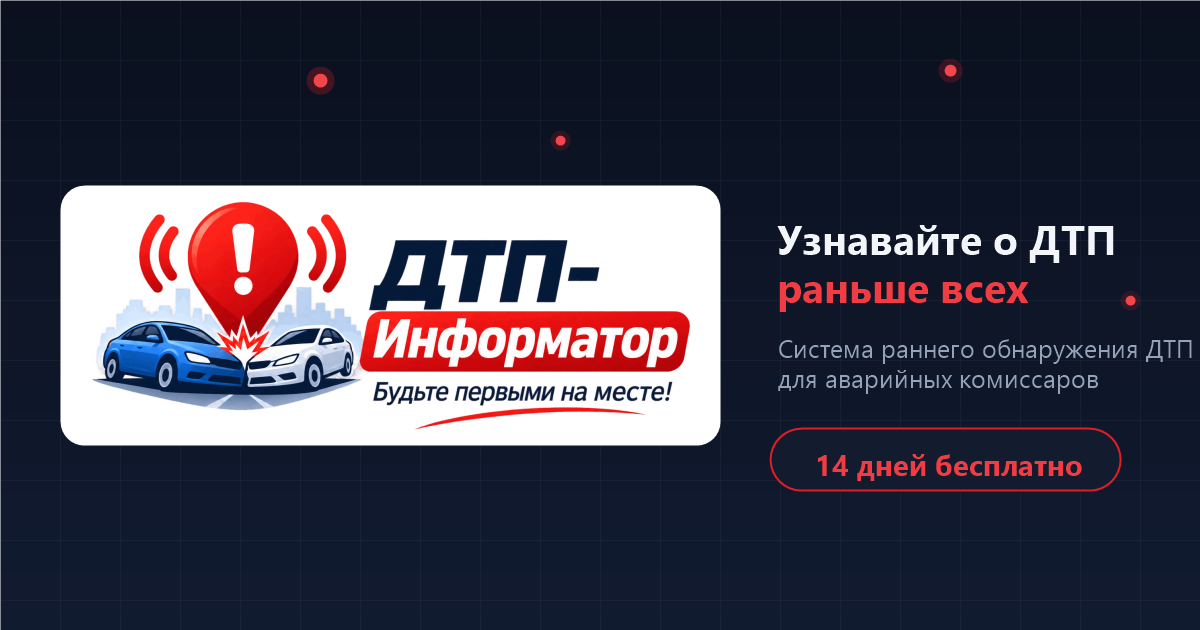
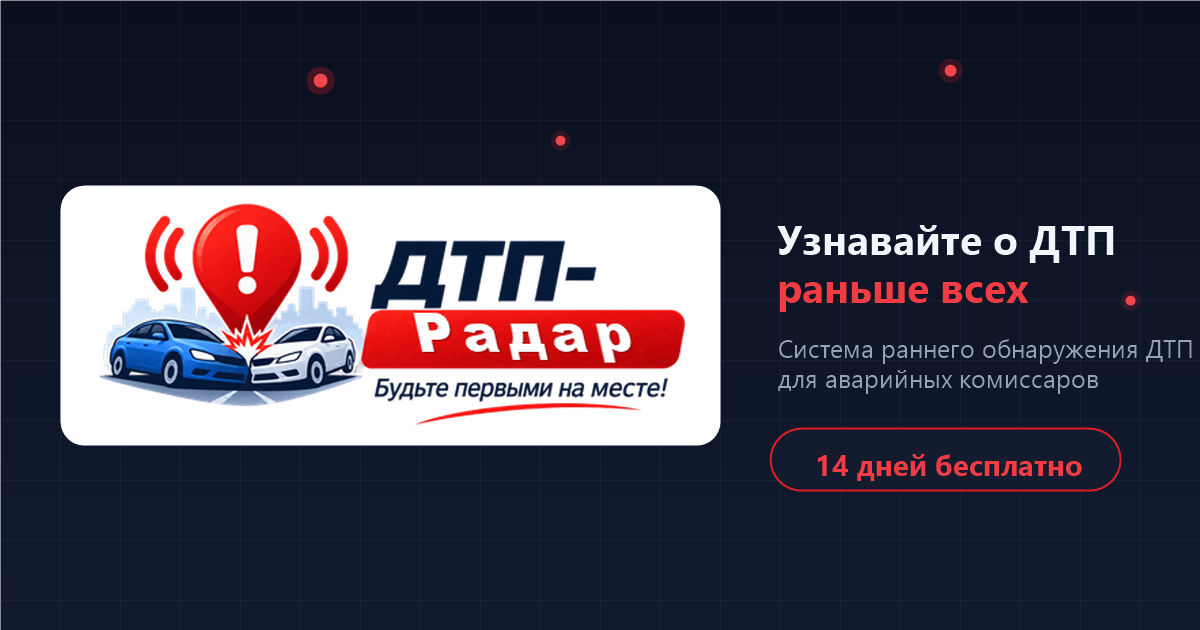
refactor: сервис переименован в "ДТП Радар"

Changed region(s): [[0.0617, 0.3016, 0.5858, 0.6937]]

diff --git a/index.html b/index.html
@@ -3,13 +3,13 @@
 <head>
   <meta charset="UTF-8">
   <meta name="viewport" content="width=device-width, initial-scale=1.0">
-  <title>ДТП Информатор - уведомления о новых ДТП для аварийных комиссаров</title>
+  <title>ДТП Радар - уведомления о новых ДТП для аварийных комиссаров</title>
   <meta name="description" content="Ваши комиссары первыми узнают о новых ДТП в городе: уведомление с адресом и координатами приходит в чат службы через несколько минут. В удобном мессенджере. 14 дней бесплатно.">
   <meta name="theme-color" content="#0b1220">
 
   <!-- Open Graph. ВАЖНО: после деплоя заменить og:url и og:image на абсолютные адреса домена -->
   <meta property="og:type" content="website">
-  <meta property="og:title" content="ДТП Информатор - комиссары узнают о ДТП первыми">
+  <meta property="og:title" content="ДТП Радар - комиссары узнают о ДТП первыми">
   <meta property="og:description" content="Уведомление о новом ДТП приходит в чат вашей службы через несколько минут. В удобном мессенджере. 14 дней бесплатно.">
   <meta property="og:image" content="assets/og-image.png">
   <meta name="twitter:card" content="summary_large_image">
@@ -74,7 +74,7 @@
   {
     "@context": "https://schema.org",
     "@type": "Service",
-    "name": "ДТП Информатор",
+    "name": "ДТП Радар",
     "description": "Сервис оповещения аварийных комиссаров о новых ДТП в их городе. Уведомление с адресом и координатами приходит в чат службы через несколько минут.",
     "areaServed": "RU",
     "review": [
@@ -85,7 +85,7 @@
       },
       {
         "@type": "Review",
-        "reviewBody": "Раньше узнавали об авариях от случайных источников - где-то кто-то скинет, где-то нет - и часто приезжали уже вторыми. С ДТП Информатором в большинстве случаев первыми на месте оказываемся мы - за два месяца выездов стало заметно больше.",
+        "reviewBody": "Раньше узнавали об авариях от случайных источников - где-то кто-то скинет, где-то нет - и часто приезжали уже вторыми. С «ДТП Радар» в большинстве случаев первыми на месте оказываемся мы - за два месяца выездов стало заметно больше.",
         "author": { "@type": "Person", "name": "Дмитрий К." }
       },
       {
@@ -104,10 +104,10 @@
 
   <header class="header">
     <div class="container header__inner">
-      <a class="logo" href="#top" aria-label="ДТП Информатор - на главную">
+      <a class="logo" href="#top" aria-label="ДТП Радар - на главную">
         <img class="logo__mark" src="assets/logo-mark.png" alt="" width="44" height="38">
         <span class="logo__text">
-          <strong>ДТП&nbsp;Информатор</strong>
+          <strong>ДТП&nbsp;Радар</strong>
           <small>система раннего обнаружения ДТП</small>
         </span>
       </a>
@@ -144,7 +144,7 @@
         <p class="hero__kicker reveal">Будьте первыми на месте ДТП!</p>
         <h1 class="hero__title reveal">Узнавайте о&nbsp;ДТП в&nbsp;вашем городе <em>первыми!</em></h1>
         <p class="hero__lead reveal">
-          ДТП Информатор - это бот в&nbsp;вашем рабочем чате. Он присылает туда данные о&nbsp;ДТП, которые произошли в&nbsp;городе прямо сейчас: адрес, координаты, и&nbsp;ссылка на маршрут. Вы читаете чат, выезжаете быстрее конкурентов и&nbsp;оформляете ДТП.
+          ДТП Радар - это бот в&nbsp;вашем рабочем чате. Он присылает туда данные о&nbsp;ДТП, которые произошли в&nbsp;городе прямо сейчас: адрес, координаты, и&nbsp;ссылка на маршрут. Вы читаете чат, выезжаете быстрее конкурентов и&nbsp;оформляете ДТП.
         </p>
         <div class="hero__actions reveal">
           <button class="btn btn--primary btn--lg" type="button" data-modal>Получить бота бесплатно</button>
@@ -196,7 +196,7 @@
                   </span>
                   <div class="phone__head-text">
                     <strong>Чат вашей службы</strong>
-                    <small><span class="online" aria-hidden="true"></span>ДТП Информатор · бот · 6 участников</small>
+                    <small><span class="online" aria-hidden="true"></span>ДТП Радар · бот · 6 участников</small>
                   </div>
                 </div>
 
@@ -444,7 +444,7 @@
               </div>
               <div class="calc__bar calc__bar--muted"><i data-calc-bar="before" style="width: 13%"></i></div>
               <div class="calc__bar-row">
-                <span>С ДТП Информатором (эксклюзив на город)</span><b data-calc-out="after2">142 560 ₽</b>
+                <span>С «ДТП Радар» (эксклюзив на город)</span><b data-calc-out="after2">142 560 ₽</b>
               </div>
               <div class="calc__bar"><i data-calc-bar="after" style="width: 100%"></i></div>
             </div>
@@ -529,7 +529,7 @@
           </figure>
           <figure class="review reveal">
             <span class="review__stars" aria-hidden="true">★★★★★</span>
-            <blockquote>«Раньше узнавали об авариях от случайных источников - где-то кто-то скинет, где-то нет - и часто приезжали уже вторыми. С ДТП Информатором в большинстве случаев первыми на месте оказываемся мы - за два месяца выездов стало заметно больше.»</blockquote>
+            <blockquote>«Раньше узнавали об авариях от случайных источников - где-то кто-то скинет, где-то нет - и часто приезжали уже вторыми. С «ДТП Радар» в большинстве случаев первыми на месте оказываемся мы - за два месяца выездов стало заметно больше.»</blockquote>
             <figcaption>
               <b>Дмитрий К.</b>
               <span>служба комиссаров, 3 экипажа</span>
@@ -596,7 +596,7 @@
     <section class="section" id="cta">
       <div class="container">
         <div class="cta reveal">
-          <img class="cta__logo" src="assets/logo-header.png" alt="ДТП Информатор - Будьте первыми на месте!" width="220" height="85">
+          <img class="cta__logo" src="assets/logo-header.png" alt="ДТП Радар - Будьте первыми на месте!" width="220" height="85">
           <h2>Попробуйте 14 дней бесплатно</h2>
           <p>Напишите в удобном мессенджере - ответим на вопросы и подключим ваш город.</p>
           <p class="cta__urgency">⚡ <b data-cta-places>Осталось 5 бесплатных мест</b> на подключение в этом месяце</p>
@@ -618,7 +618,7 @@
       <div class="logo logo--footer">
         <img class="logo__mark" src="assets/logo-mark.png" alt="" width="36" height="31">
         <span class="logo__text">
-          <strong>ДТП&nbsp;Информатор</strong>
+          <strong>ДТП&nbsp;Радар</strong>
           <small>система раннего обнаружения ДТП</small>
         </span>
       </div>
@@ -629,7 +629,7 @@
         <a href="#reviews">Отзывы</a>
         <a href="#faq">Вопросы</a>
       </nav>
-      <small class="footer__copy">© <span data-year>2026</span> ДТП Информатор</small>
+      <small class="footer__copy">© <span data-year>2026</span> ДТП Радар</small>
     </div>
   </footer>
 

diff --git a/styles.css b/styles.css
@@ -1,5 +1,5 @@
 /* ============================================================
-   ДТП Информатор — промо-лендинг
+   ДТП Радар — промо-лендинг
    Тёмная тема в фирменных цветах логотипа: красный + тёмно-синий
    ============================================================ */
 

diff --git a/main.js b/main.js
@@ -1,4 +1,4 @@
-/* ДТП Информатор — промо-лендинг: анимации и мелкая интерактивность */
+/* ДТП Радар — промо-лендинг: анимации и мелкая интерактивность */
 (() => {
   'use strict';
 

diff --git a/README.md b/README.md
@@ -1,4 +1,4 @@
-# ДТП Информатор — промо-лендинг
+# ДТП Радар — промо-лендинг
 
 Статический одностраничный сайт: чистый HTML + CSS + JS, без сборки и серверной логики.
 Можно открыть `index.html` прямо в браузере или выложить на любой статический хостинг.
@@ -34,7 +34,7 @@ assets/
 
 **Вариант 1 — отдельный публичный репозиторий (рекомендуется):**
 
-1. Создать публичный репозиторий, например `dtp-informator-landing`.
+1. Создать публичный репозиторий, например `dtp-radar-landing`.
 2. Скопировать содержимое этой папки в его корень (`index.html` должен лежать в корне).
 3. Settings → Pages → Source: «Deploy from a branch» → ветка `main`, папка `/ (root)` → Save.
 4. Сайт появится на `https://<username>.github.io/<repo>/`.
